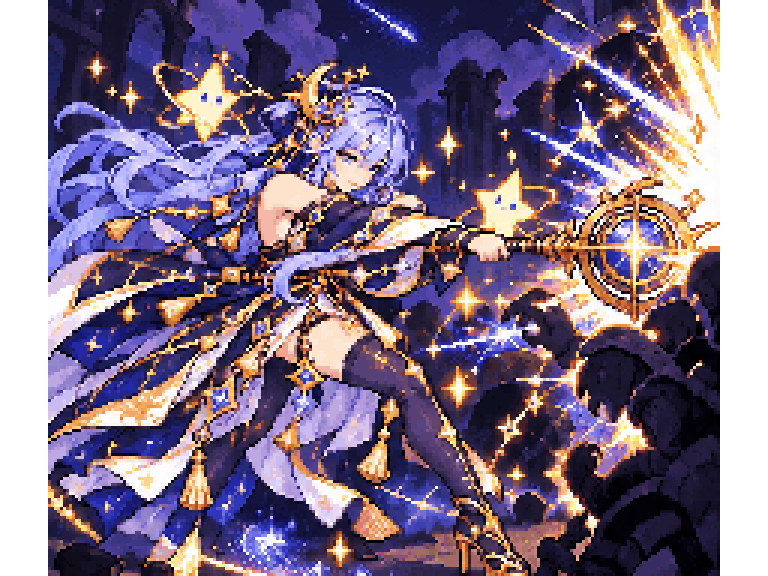
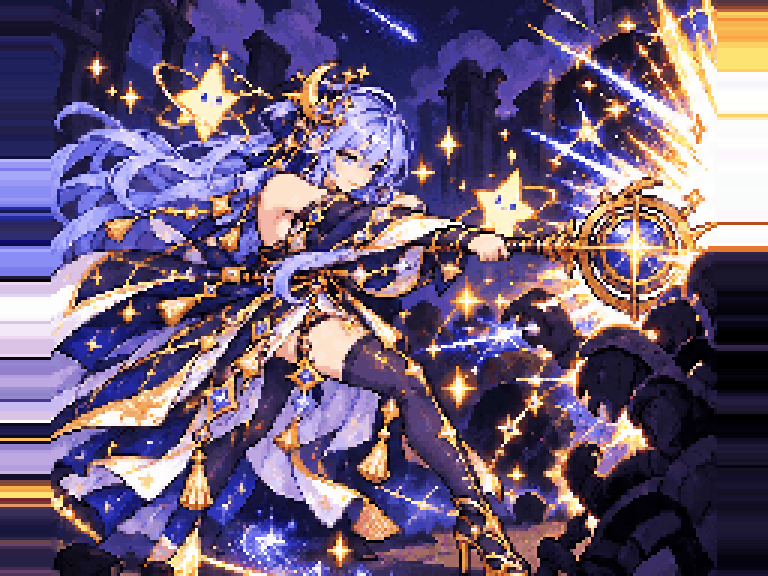
fix: 카드 그림 병합 확인 — 아카네·루나리아·시온 카드 양옆 빈 띠 메우기, 야시장 단추가 다섯째 카드 값을 덮던 것·도구 설명이 흘러내리던 것
- GPT 카드 그림 15명 + 루나리아 오라 병합(카드 18명 72장이 손패·보상·상점·덱에 들어감)
- 아카네·루나리아·시온 카드 그림 양옆 12px(원본) 투명 띠 → 가장자리 색으로 메움(카드 안에 빈 막대가 보이던 것)
- 야시장: 오른쪽 단추 셋이 줄보다 커서 위로 넘쳐 다섯째 카드 값을 덮던 것 → 작게 아래로, 진열대 도구는 그림+이름만(설명은 커서)

Claude-Session: https://claude.ai/code/session_01GtiuGoSnE1xBm8y1CoQhhR

diff --git a/css/meta2.css b/css/meta2.css
@@ -110,3 +110,15 @@
 .cxfoe.beat small{color:var(--gold)}
 .cxfoe small{font-size:8.5px;color:#d8d4ec;white-space:nowrap;text-shadow:1px 1px 0 #000}
 .cxfoe i{display:block;width:64px;height:64px}
+
+/* 야시장 오른쪽 아래 단추 셋: 줄보다 키가 커서 위로 넘쳐 다섯째 카드 값을 덮던 것 → 작게, 아래에 붙여 2칸 + 나간다 */
+.shopmain .services{display:grid;grid-template-columns:1fr 1fr;gap:3px;align-self:flex-end;justify-content:stretch;width:176px}
+.shopmain .services button{font-size:9px;padding:2px 4px;white-space:nowrap}
+.shopmain .services button.primary{grid-column:1 / -1;font-size:11px}
+.shopmain .wares{position:relative;z-index:1}
+/* 진열대 도구: 그림 + 이름만(설명은 커서를 대면) — 좁은 칸에 설명 글이 세로로 흘러내리던 것 */
+.shopmain .relicware{max-width:none;flex-direction:column;align-items:center;gap:2px;padding:4px 6px}
+.shopmain .relicware .rbox{flex-direction:column;align-items:center;gap:1px;text-align:center}
+.shopmain .relicware .rbox > span:last-child{font-size:0;line-height:0}
+.shopmain .relicware .rbox > span:last-child b{font-size:9.5px;line-height:1.2;white-space:nowrap}
+.shopmain .relicware .rbox > span:last-child small{display:none}

diff --git a/js/render/screens.js b/js/render/screens.js
@@ -86,7 +86,7 @@ export function shopView() {
   const G = S.G, sh = G.shop;
   const cards = sh.cards.map((c, i) => `<span class="ware ${c.sold ? 'sold' : ''}">${cardHTML(c.id, !c.sold && G.gold >= c.price, 'buycard', i)}
     <span class="price ${G.gold >= c.price ? '' : 'short'}">${c.sold ? '팔림' : `<i class="gico"></i>${c.price}${c.sale ? ' <b>반값</b>' : ''}`}</span></span>`).join('');
-  const relics = sh.relics.map((r, i) => `<button type="button" class="ware relicware ${r.sold ? 'sold' : ''}" data-buyrelic="${i}" ${r.sold || G.gold < r.price ? 'disabled' : ''}>
+  const relics = sh.relics.map((r, i) => `<button type="button" class="ware relicware ${r.sold ? 'sold' : ''}" data-tip="${esc(`${RELICS[r.id].name} (${RELIC_TIER_NAME[RELICS[r.id].tier]}) — ${RELICS[r.id].text}`)}" data-buyrelic="${i}" ${r.sold || G.gold < r.price ? 'disabled' : ''}>
     ${relicBox(r.id)}<span class="price">${r.sold ? '팔림' : `<i class="gico"></i>${r.price}`}</span></button>`).join('');
   // 야시장: 왼쪽에 상인 후쿠로(그림 + 말풍선), 오른쪽 진열대(카드 줄·도구 줄), 값은 별빛 아이콘
   return `<div class="shopscr s2">
